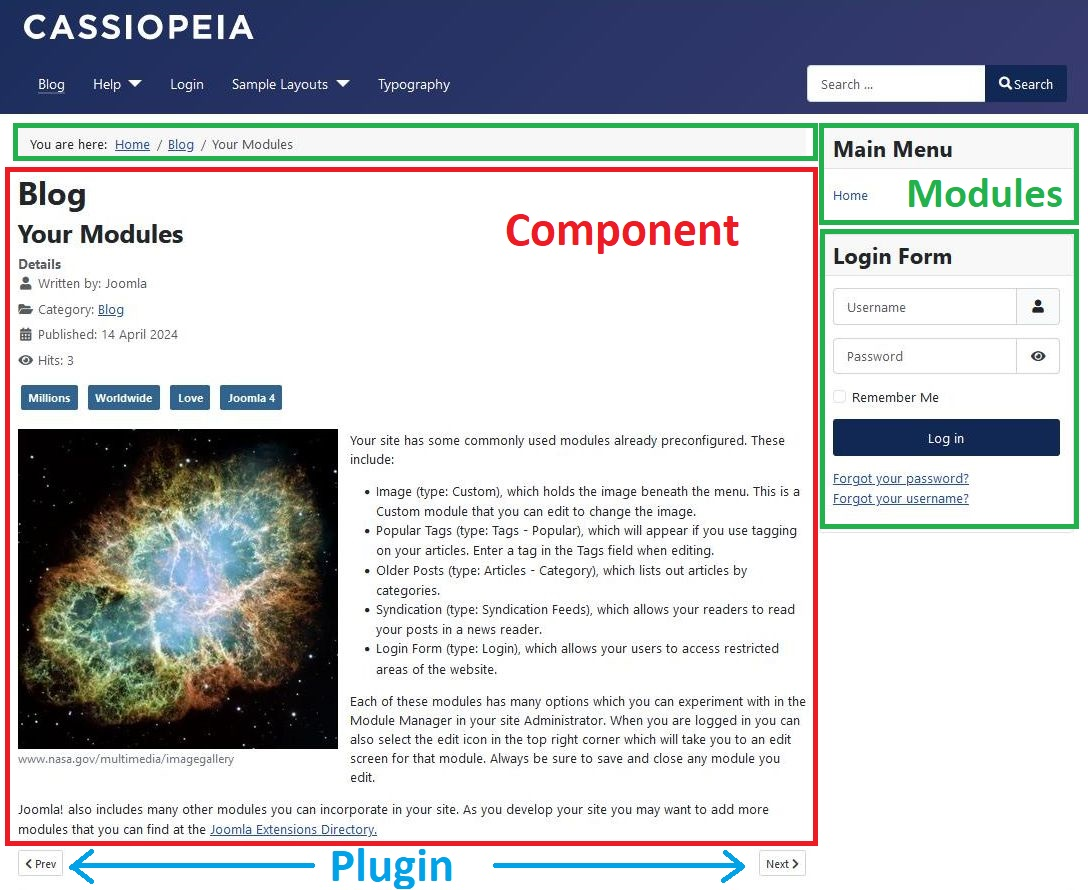
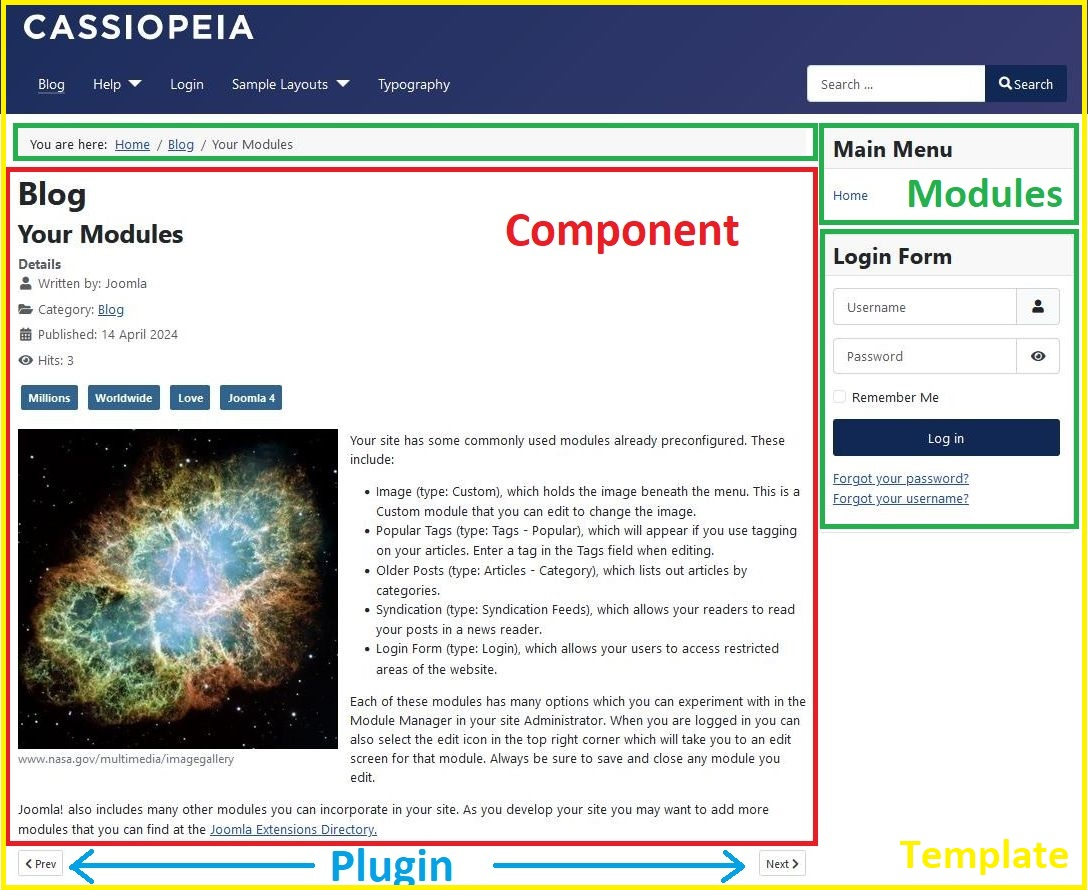
More info on extension types, and expanded description of components and modules.

Changed region(s): [[0.0, 0.0, 1.0, 1.0]]

diff --git a/versioned_docs/version-4.4/building-extensions/index.md b/versioned_docs/version-4.4/building-extensions/index.md
@@ -5,18 +5,30 @@ Build Extensions
 ================
 Joomla is a rich featured content management system, but if you're building a website with Joomla and you need extra features which aren't available by default, then you can easily extend it with extensions. There are five common types of extensions for Joomla: Components, Modules, Plugins, Templates, and Languages. There are three others: Packages, Files and Libraries. Each of these extensions handle specific functionality (many built-in features of Joomla are implemented using extensions).
 
+The difference between Joomla components, modules, plugins and templates can be initially confusing. If you're new to Joomla then you may find it useful to watch the video [How Joomla Works - a guide for extension developers](https://youtu.be/JKnq47Yhtvs), which describes how these 4 types of extension fit into the generation of a Joomla web page. Their output is also highlighted in different colours in the diagram below. 
+
 ![Screenshot showing extension types](./_assets/screenshot-extension-types.jpg)
 
 # Components
 [Components](./components/index.md) provide the central part of a web page on a Joomla site; each site web page displays the output from one component. They can be thought of as mini applications. Most components have two parts: a site part and an administrator part. For example, `com_content` is the component which handles articles; on the site front-end `com_content` displays articles to website visitors and on the back-end `com_content` provides the functionality for administrators to edit articles. 
 
-- Examples: Content (com_content), Banners (com_banners), Contacts (com_contact), News Feeds (com_newsfeeds)
+In general, components manage the data of the Joomla instance and provide functionality for creating, editing, removing and displaying the data. Often the data management aspects are handled in the administrator back-end and the site front-end simply displays the data, but this split of responsibility is not mandated, and some components provide front-end functionality for creating/editing/removing data.
+
+When you navigate to a certain page on a site or perform a certain operation such as login/logout then you're selecting the component which is going to be run. That component is the code which is primarily responsible for handling the HTTP Request, executing the requested operation, and displaying the key data on the web page. 
+
+- Examples: Managing articles (com_content), Categories (com_categories), Contacts (com_contact), Images and media files (com_media)
 - Management feature: Admin menu → Components → Contacts (for com_contact)
 
-# Modules
-[Modules](./modules/index.md) are more lightweight and flexible extensions used within page rendering. These modules are mostly known as the “boxes” that are arranged around a component, for example: the login module or the breadcrumbs module. Modules are assigned per menu item. So you can decide to show or hide the login module depending on which menu item the user is viewing. Sometimes modules are linked to components such as the “Latest News” module which links to the `com_content` and displays links to the newest content items. However, modules do not need to be linked to components, as a matter of fact they don't even need to be linked to anything and can be just static HTML or text.
+Examples of component functionality available from third party extensions include backup utilities and support for eCommerce. 
 
-- Examples: Banners (mod_banners), Menus (mod_menu), Who's Online (mod_whosonline)
+# Modules
+[Modules](./modules/index.md) are more lightweight and flexible extensions displayed on a web page. Modules are mostly known as the “boxes” that are arranged around a component, for example: the login module or the breadcrumbs module. Modules are assigned per menu item. So you can decide to show or hide the login module depending on which menu item the user is viewing. 
+
+A module can often be a companion to the component. For example, if your web page displays an article (`com_content` component) then you might have a module (`mod_tags_similar`) in the sidebar which displays links to related articles, or a module which displays an image slider of related photos.
+
+However, modules do not need to be linked to components, as a matter of fact they don't even need to be linked to anything and can be just static HTML or text.
+
+- Examples: Latest Articles (mod_articles_latest), Menus (mod_menu), Who's Online (mod_whosonline), Custom HTML (mod_custom)
 - Management feature: Admin menu → Content → Site Modules
 
 If you're just beginning with Joomla extension development then developing a module is the easiest place to start. 
